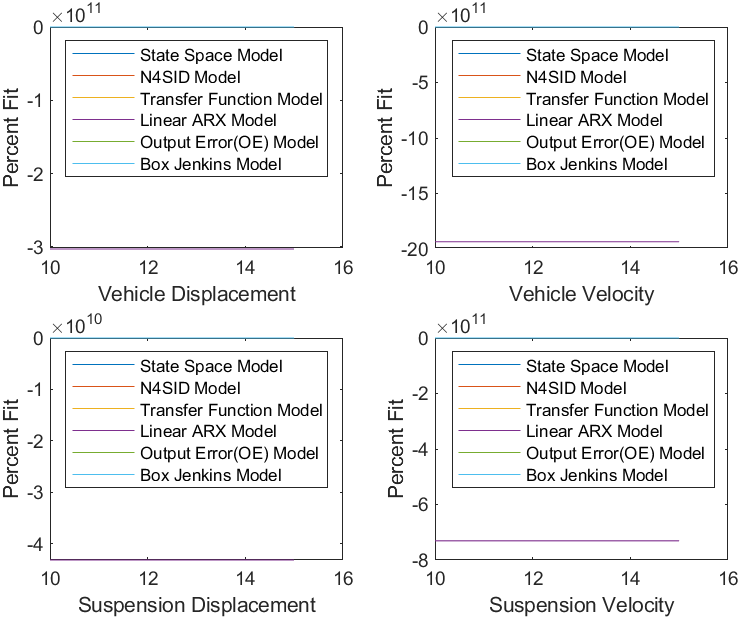
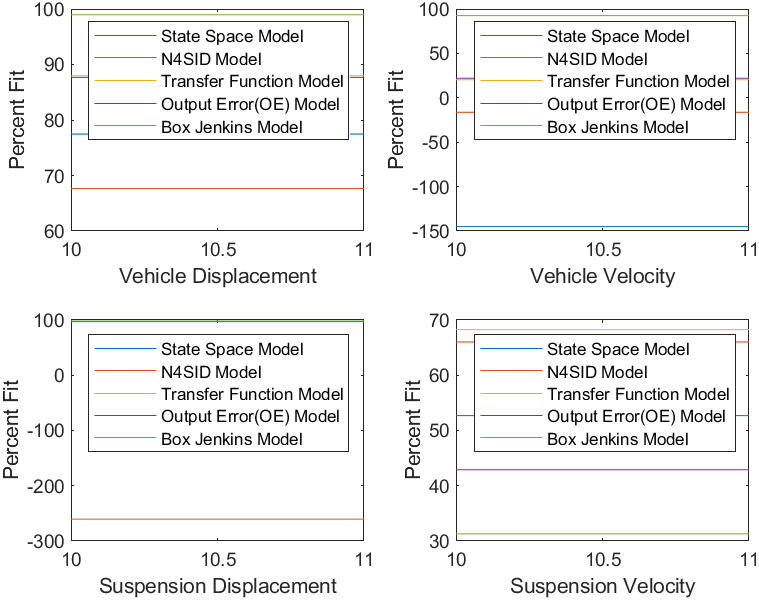
Streamlined Pipeline and added multiple runs to evaluate time cost

diff --git a/src/qcmIdentPipeline.m b/src/qcmIdentPipeline.m
@@ -2,103 +2,71 @@ clear all;
 close all;
 
 estSplit = 0.3;
+numRuns = 11;
+avgComputeCost = zeros(6,numRuns-10);
 
-% parfor numRuns = 10:100
-%     
-%     [est_data,val_data,modelStepResponse] = generateQCM(numRuns);
-%     [ymod, fit, ic] = identifyQCM(val_data,est_data);
-% 
-% end    
-
-[inputParams,totalResponseData,modelStepResponse] = generateQCM();
-
-numRuns = 15;
-
-ss_fit = zeros(4,numRuns);
-n4s_fit= zeros(4,numRuns);
-tf_fit = zeros(4,numRuns);
-arx_fit = zeros(4,numRuns);
-OE_fit = zeros(4,numRuns);
-BJ_fit = zeros(4,numRuns);
-computeCost = zeros(6,numRuns);
-for itr = 10:numRuns
+for loopCounter = 1:2
     
-    responseData = totalResponseData(1:numRuns);
-    [ymod, fit, ic, timeCost] = identifyQCM(estSplit,responseData);
-    ss_fit(:,itr) = fit{1,1};
-    n4s_fit(:,itr) = fit{2,2};
-    tf_fit(:,itr) = fit{3,3};
-    arx_fit(:,itr) = fit{4,4};
-    OE_fit(:,itr) = fit{5,5};
-    BJ_fit(:,itr) = fit{6,6};
-    computeCost(:,itr) = timeCost;
-
+    [inputParams,totalResponseData,modelStepResponse] = generateQCM(numRuns);
+        
+    ss_fit = zeros(4,numRuns-10);
+    n4s_fit= zeros(4,numRuns-10);
+    tf_fit = zeros(4,numRuns-10);
+    arx_fit = zeros(4,numRuns-10);
+    OE_fit = zeros(4,numRuns-10);
+    BJ_fit = zeros(4,numRuns-10);
+    computeCost = zeros(6,numRuns-10);
+    for itr = 10:numRuns
+        
+        responseData = totalResponseData(1:numRuns);
+        [ymod, fit, ic, timeCost] = identifyQCM(estSplit,responseData);
+        ss_fit(:,itr-9) = fit{1,1};
+        n4s_fit(:,itr-9) = fit{2,2};
+        tf_fit(:,itr-9) = fit{3,3};
+        arx_fit(:,itr-9) = fit{4,4};
+        OE_fit(:,itr-9) = fit{5,5};
+        BJ_fit(:,itr-9) = fit{6,6};
+        computeCost(:,itr-9) = timeCost;
+    
+    end
+        avgComputeCost = avgComputeCost + computeCost;
+        
 end
 
+avgComputeCost = avgComputeCost/loopCounter;
+
+outputList = ["Vehicle Displacement","Vehicle Velocity","Suspension Displacement","Suspension Velocity"];
 t = figure;
-plot(10:numRuns,computeCost(1,10:numRuns));
+plot(10:numRuns,avgComputeCost(1,1:numRuns-9));
 xlabel("Number of experiments");
 ylabel("Computational Time Cost(s)");
 hold on;
-plot(10:numRuns,computeCost(2,10:numRuns));
-plot(10:numRuns,computeCost(3,10:numRuns));
-plot(10:numRuns,computeCost(4,10:numRuns));
-plot(10:numRuns,computeCost(5,10:numRuns));
-plot(10:numRuns,computeCost(6,10:numRuns));
-legend("Transfer Function Model","State Space Model", "N4SID Model","Linear ARX Model","Output Error(OE) Model","Box Jenkins Model");
+plot(10:numRuns,avgComputeCost(2,1:numRuns-9));
+plot(10:numRuns,avgComputeCost(3,1:numRuns-9));
+%plot(10:numRuns,computeCost(4,1:numRuns-9));
+plot(10:numRuns,avgComputeCost(5,1:numRuns-9));
+plot(10:numRuns,avgComputeCost(6,1:numRuns-9));
+%legend("State Space Model", "N4SID Model","Transfer Function Model","Linear ARX Model","Output Error(OE) Model","Box Jenkins Model");
+legend("State Space Model", "N4SID Model","Transfer Function Model","Output Error(OE) Model","Box Jenkins Model");
+
 hold off;
 exportgraphics(t,"TimeCostPlot.png")
-
 fit = figure;
-subplot(2,2,1);
-plot(10:numRuns, ss_fit(1,10:numRuns));
-xlabel("Vehicle Displacement");
-ylabel("Percent Fit");
-hold on;
-plot(10:numRuns, n4s_fit(1,10:numRuns));
-plot(10:numRuns, tf_fit(1,10:numRuns));
-plot(10:numRuns, arx_fit(1,10:numRuns));
-plot(10:numRuns, OE_fit(1,10:numRuns));
-plot(10:numRuns, BJ_fit(1,10:numRuns));
-legend("State Space Model", "N4SID Model","Transfer Function Model","Linear ARX Model","Output Error(OE) Model","Box Jenkins Model");
-hold off;
+for j = 1:4
 
-subplot(2,2,2);
-plot(10:numRuns, ss_fit(2,10:numRuns));
-xlabel("Vehicle Velocity");
-ylabel("Percent Fit");
-hold on;
-plot(10:numRuns, n4s_fit(2,10:numRuns));
-plot(10:numRuns, tf_fit(2,10:numRuns));
-plot(10:numRuns, arx_fit(2,10:numRuns));
-plot(10:numRuns, OE_fit(2,10:numRuns));
-plot(10:numRuns, BJ_fit(2,10:numRuns));
-legend("State Space Model", "N4SID Model","Transfer Function Model","Linear ARX Model","Output Error(OE) Model","Box Jenkins Model");
-hold off;
+    subplot(2,2,j);
+    plot(10:numRuns, ss_fit(j,1:numRuns-9));
+    xlabel(outputList(j));
+    ylabel("Percent Fit");
+    hold on;
+    plot(10:numRuns, n4s_fit(j,1:numRuns-9));
+    plot(10:numRuns, tf_fit(j,1:numRuns-9));
+    %plot(10:numRuns, arx_fit(j,1:numRuns-9));
+    plot(10:numRuns, OE_fit(j,1:numRuns-9));
+    plot(10:numRuns, BJ_fit(j,1:numRuns-9));
+    %legend("State Space Model", "N4SID Model","Transfer Function Model","Linear ARX Model","Output Error(OE) Model","Box Jenkins Model");
+    legend("State Space Model", "N4SID Model","Transfer Function Model","Output Error(OE) Model","Box Jenkins Model");
+    hold off;
+end
 
-subplot(2,2,3);
-plot(10:numRuns, ss_fit(3,10:numRuns));
-xlabel("Suspension Displacement");
-ylabel("Percent Fit");
-hold on;
-plot(10:numRuns, n4s_fit(3,10:numRuns));
-plot(10:numRuns, tf_fit(3,10:numRuns));
-plot(10:numRuns, arx_fit(3,10:numRuns));
-plot(10:numRuns, OE_fit(3,10:numRuns));
-plot(10:numRuns, BJ_fit(3,10:numRuns));
-legend("State Space Model", "N4SID Model","Transfer Function Model","Linear ARX Model","Output Error(OE) Model","Box Jenkins Model");
-hold off;
-
-subplot(2,2,4);
-plot(10:numRuns, ss_fit(4,10:numRuns));
-xlabel("Suspension Velocity");
-ylabel("Percent Fit");
-hold on;
-plot(10:numRuns, n4s_fit(4,10:numRuns));
-plot(10:numRuns, tf_fit(4,10:numRuns));
-plot(10:numRuns, arx_fit(4,10:numRuns));
-plot(10:numRuns, OE_fit(4,10:numRuns));
-plot(10:numRuns, BJ_fit(4,10:numRuns));
-legend("State Space Model", "N4SID Model","Transfer Function Model","Linear ARX Model","Output Error(OE) Model","Box Jenkins Model");
-hold off;
 exportgraphics(fit,"OutputFit.png");

diff --git a/src/identifyQCM.m b/src/identifyQCM.m
@@ -18,11 +18,12 @@ function [ymod, fit, ic,timeCost] = identifyQCM(estSplit,responseData)
         val_data = merge(val_data,responseData{numRunsTotal - itr});
     end
     timeCost = zeros(6,1);
-    %Estimate using the Transfer Function Model
+    %Estimate using the Transfer Function Model. Time the estimation
     tf_time = tic();
     sys_tf = tfest(est_data,4);
     timeCost(1) = toc(tf_time);
 
+    %Estimate using the N4SID Model. Time the estimation
     Options_n4sid = n4sidOptions;                          
     Options_n4sid.Focus = 'simulation';                    
     
@@ -30,23 +31,25 @@ function [ymod, fit, ic,timeCost] = identifyQCM(estSplit,responseData)
     sys_n = n4sid(est_data, 4, 'Form', 'free', Options_n4sid);
     timeCost(2) = toc(n_time);
     
-    
+    %Estimate using the State Space Model. Time the estimation
     Options_ss = ssestOptions;
     Options_ss.Focus = 'simulation';
     ss_time = tic();
     sys_ss = ssest(est_data, 4, 'Form', 'free',Options_ss);
     timeCost(3) = toc(ss_time);
     
+     %Estimate using the Linear ARX Model. Time the estimation
      Opt = arxOptions;                      
-     Opt.Focus = 'prediction';              
-     na = [5 5 5 5;5 5 5 5;5 5 5 5;5 5 5 5];
-     nb = [2;2;2;2];                        
-     nk = [1;1;1;1];         
+    Opt.Focus = 'prediction';              
+    na = [5 5 5 5;5 5 5 5;5 5 5 5;5 5 5 5];
+    nb = [2;2;2;2];                        
+    nk = [1;1;1;1];                         
      
      time_arx = tic();
      sys_arx = arx(est_data,[na,nb,nk], Opt);
-     timeCost(5) = toc(time_arx);
-    
+     timeCost(5) = toc(time_arx);                        
+ 
+    %Estimate using the Output Error Model. Time the estimation
      Opt_OE = oeOptions;                    
      Opt_OE.Focus = 'prediction';           
      nb = [2;2;2;2];                     
@@ -56,7 +59,8 @@ function [ymod, fit, ic,timeCost] = identifyQCM(estSplit,responseData)
      sys_OE = oe(est_data,[nb nf nk], Opt_OE);
      timeCost(5) = toc(time_OE);
     
-      Opt_BJ = bjOptions;                             
+     %Estimate using the Box Jenkins Model. Time the estimation
+     Opt_BJ = bjOptions;                             
      nb = [2;2;2;2];                              
      nc = [2;2;2;2];                              
      nd = [2;2;2;2];                              
@@ -65,7 +69,9 @@ function [ymod, fit, ic,timeCost] = identifyQCM(estSplit,responseData)
      time_BJ = tic();
      sys_BJ = bj(est_data,[nb nc nd  nf nk], Opt_BJ);
      timeCost(6) = toc(time_BJ);                                                                                                             
-                              
+    
+    %Compare the performance of all methods and capture the results to
+    %return to the calling script
     [ymod,fit,ic] = compare(val_data,sys_ss,sys_n,sys_tf,sys_arx,sys_OE,sys_BJ);
 
 end
